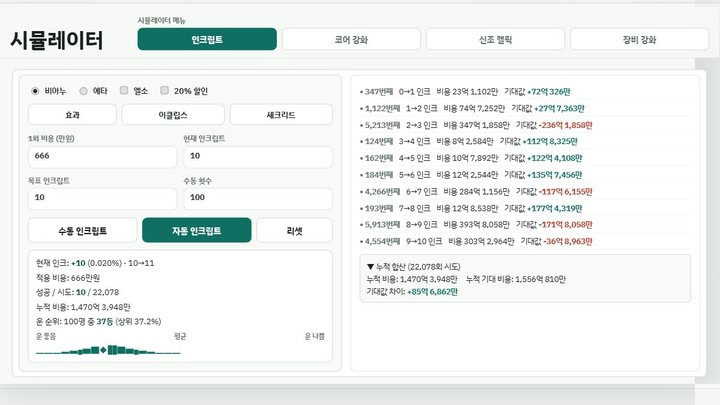
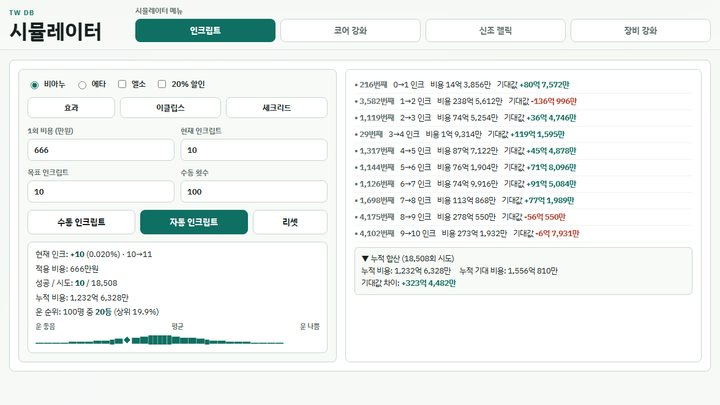
사냥터 1킬 계산기 언데드 도움말 문구를 고치고 시뮬레이터 홈 캡처를 갱신한다

diff --git a/assets/app.js b/assets/app.js
@@ -3831,7 +3831,7 @@ const OK_EXTRAS = [
   { key: "stone", name: "장비 강화석 부가 옵션", icon: "장비강화석.png", unit: "%", options: [0, 45, 46, 47, 48], def: 45 },
   { key: "fever", name: "피버 추가 대미지 부가 옵션", icon: "피버.png", unit: "%", options: [0, 8, 9, 10, 11, 12, 13], def: 0, excl: "undead" },
   { key: "undead", name: "언데드 추가 대미지 부가 옵션", icon: "언데드.webp", unit: "%", options: [0, 11, 12, 13, 14, 15], def: 0, excl: "fever",
-    help: { title: "언데드 추가 대미지 부가 옵션", lines: ["카드 옵션 \"언데드\"를 이용하여 HP를 15% 미만으로 내린 후, 무기 부가 옵션을 사용함", "\"자신의 HP가 15% 미만이면 대상에게 11~15% 추가 피해를 줍니다\""] } },
+    help: { title: "언데드 추가 대미지 부가 옵션", lines: ["카드 옵션 \"언데드\"를 이용하여 HP를 15% 미만을 유지하고, 아래 무기 부가 옵션을 사용함", "\"자신의 HP가 15% 미만이면 대상에게 11~15% 추가 피해를 줍니다\""] } },
   { key: "title", name: "칭호 추가 대미지", icon: "칭호.png", unit: "%", options: [0, 15, 20], def: 0 },
   { key: "snipe", name: "저격 연마", icon: "저격연마.png", unit: "LV", options: [5, 6, 7, 8, 9, 10], def: 5, pct: { 0: 0, 1: 5, 2: 10, 3: 15, 4: 20, 5: 25, 6: 28, 7: 31, 8: 34, 9: 37, 10: 40 } },
   { key: "etc", name: "기타", unit: "%", def: 0 },
